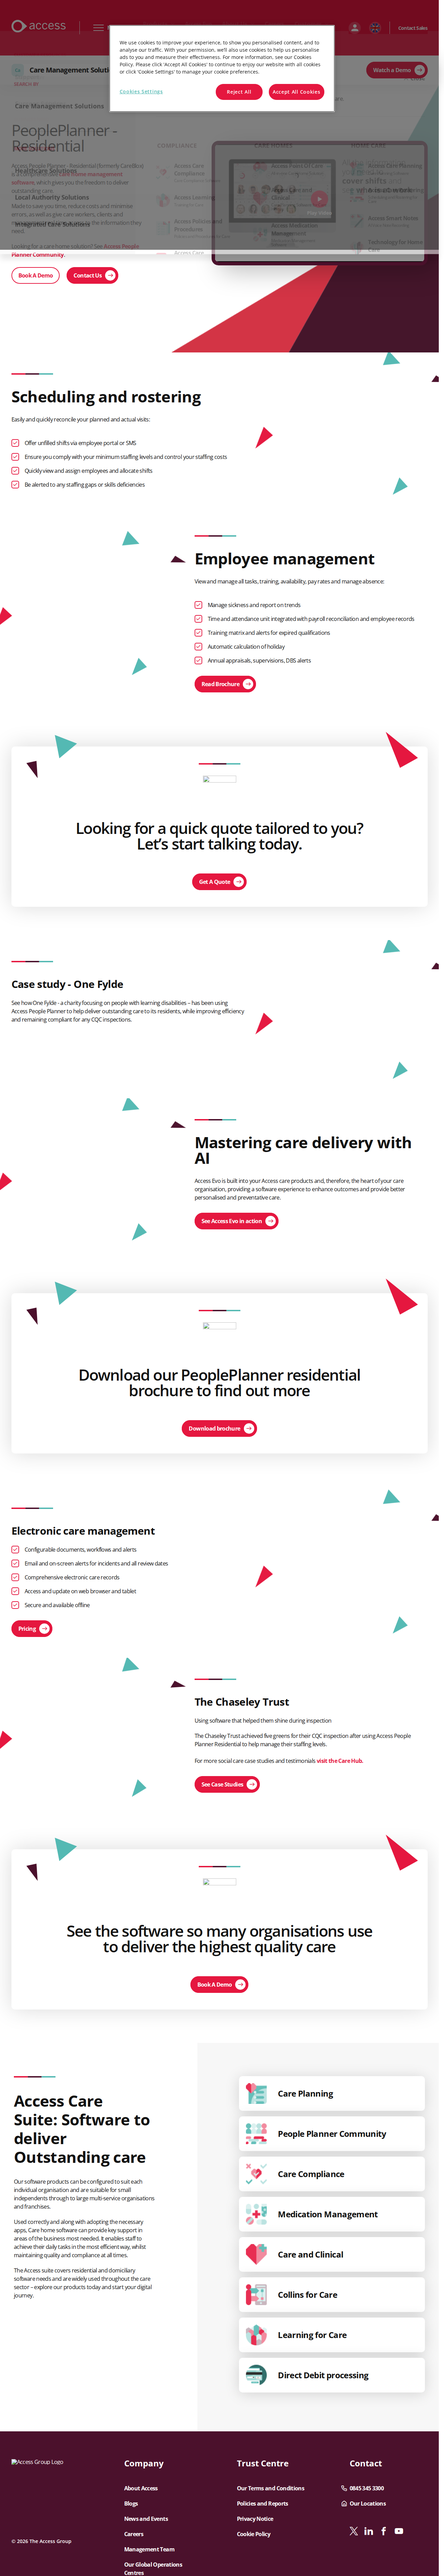
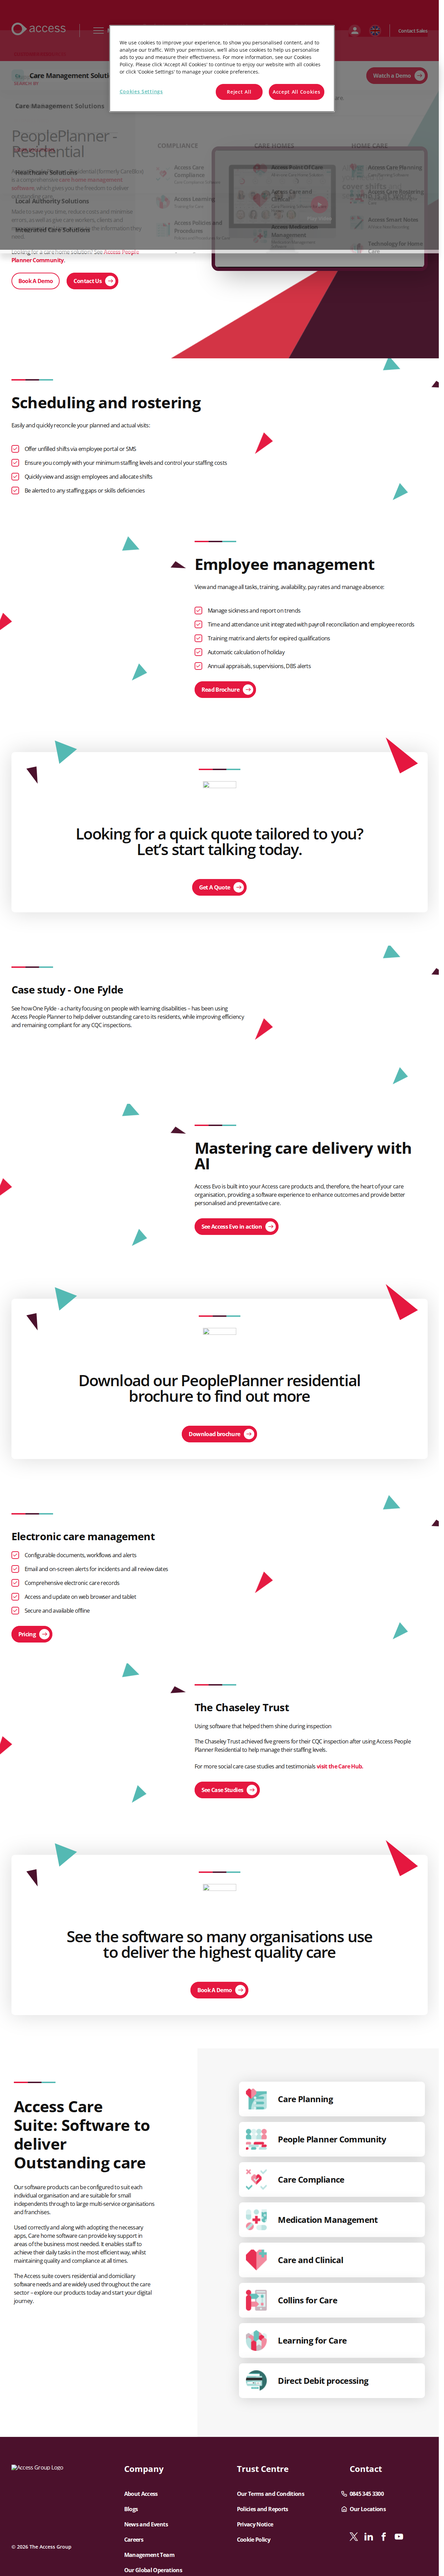
Improve login automation by anchoring on password field
Update People Planner automation to directly target password and username input fields, bypassing form element assumptions and improving reliability in ASP.NET environments.

Replit-Commit-Author: Agent
Replit-Commit-Session-Id: ed4acdaa-0096-4d84-8235-b8c8a93640ae
Replit-Commit-Checkpoint-Type: full_checkpoint
Replit-Commit-Event-Id: bce1f63b-357e-494d-bf2d-71b43d6285d3
Replit-Commit-Screenshot-Url: https://storage.googleapis.com/screenshot-production-us-central1/f111f999-5923-4927-b1a6-82fa47fe9a5b/ed4acdaa-0096-4d84-8235-b8c8a93640ae/nvfaLNi

diff --git a/server/pp-automation.ts b/server/pp-automation.ts
@@ -92,19 +92,28 @@ class PeoplePlannerAutomation {
 
       // Step 3: Username/password login
       console.log('🔐 Entering credentials...');
-      const loginForm = this.page.locator('form').filter({
-        has: this.page.locator('input[type="password"]')
-      });
+      // Anchor on the password field directly - ignore the form element
+      const passwordInput = this.page.locator('input[type="password"]');
+      await passwordInput.waitFor({ state: 'visible', timeout: 30000 });
 
-      await loginForm.waitFor({ state: 'visible', timeout: 30000 });
+      // Find the username input - exclude hidden cookie search fields
+      const usernameInput = this.page.locator('input[type="text"]').filter({
+        hasNot: this.page.locator('#vendor-search-handler')
+      }).last();
 
-      const usernameInput = loginForm.locator('input[type="text"]');
       await usernameInput.fill(credentials.username);
-
-      const passwordInput = loginForm.locator('input[type="password"]');
       await passwordInput.fill(credentials.password);
 
-      await loginForm.locator('input[type="submit"], button').first().click();
+      // Submit by clicking the login button or pressing Enter
+      const loginButton = this.page.locator('input[type="submit"], button').filter({
+        hasText: /login/i
+      }).first();
+      
+      if (await loginButton.isVisible()) {
+        await loginButton.click();
+      } else {
+        await passwordInput.press('Enter');
+      }
 
       // Step 4: Verify dashboard loads
       await this.page.waitForSelector('text=Dashboard', { timeout: 30000 });
